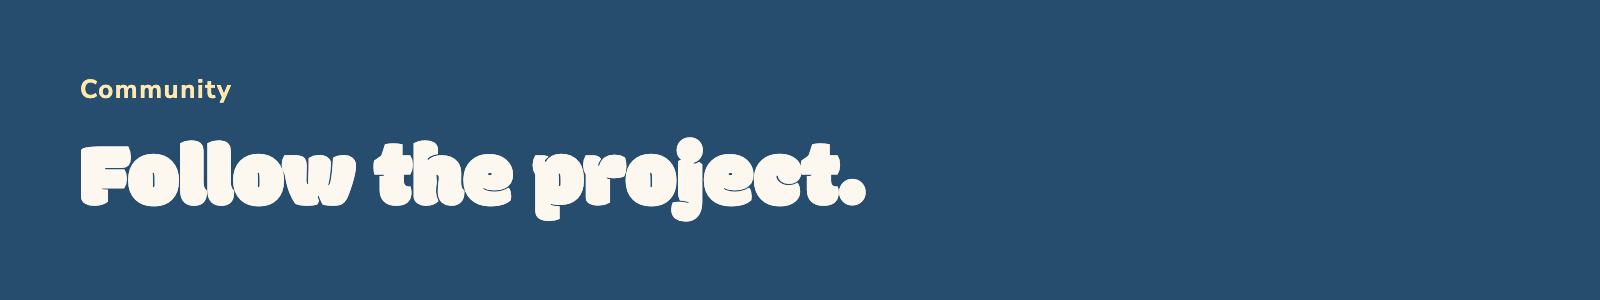
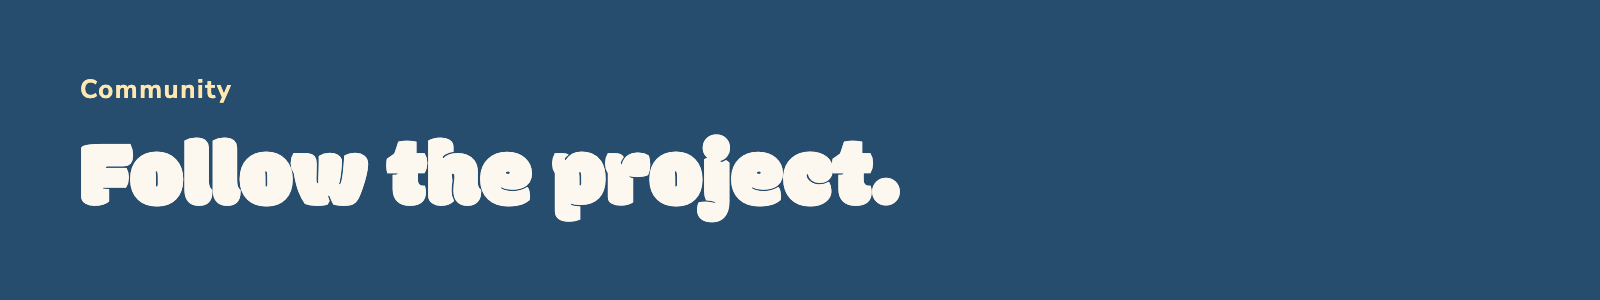
doc(profile): drop the independence claim, and every em dash
"An object that depends on nobody." was not true. The firmware and the
app are closed and maintained by one person, so the object does depend
on someone, and a profile page that overstates it is the worst place to
do so. The banner now reads "The promise / What you put in stays
yours.", which is the claim the section actually backs up: the content
is yours, it plays with no cloud in the loop, the parts can be swapped.

No em dash anywhere in `profile/` any more, README and technical
specifications included. Where one separated a bold lead from its text,
it goes back to the line break the table version had; in a bullet it
becomes a colon.

Re-rendering the banner recomputed the shared title size, which is the
largest that fits the longest of them: 92 px becomes 96 px now that the
longest title is shorter. The other five follow, by design.

Changed region(s): [[0.0312, 0.45, 0.5625, 0.75]]

diff --git a/profile/README.md b/profile/README.md
@@ -34,27 +34,27 @@ That was the proof of concept. Today The Open Music Box is a real product in the
   <img src="https://raw.githubusercontent.com/The-Open-Music-Box/.github/main/profile/assets/musicbox-v4-render.jpg" alt="The MusicBox V4 prototype with a card in its slot" width="420" />
 </p>
 
-**What you do from your phone** — You add your music, your stories and your podcasts, you create playlists and you link each one to an NFC card. Standard cards, stickers or figurines, nothing proprietary.
+**What you do from your phone**<br/>You add your music, your stories and your podcasts, you create playlists and you link each one to an NFC card. Standard cards, stickers or figurines, nothing proprietary.
 
-**What your child does** — Place the card on the MusicBox and it plays. Take it off and it stops. Four buttons for volume and tracks, nothing else to learn, and no need to know how to read.
+**What your child does**<br/>Place the card on the MusicBox and it plays. Take it off and it stops. Four buttons for volume and tracks, nothing else to learn, and no need to know how to read.
 
-**Where it works** — In the bedroom, in the car, at the grandparents. The MusicBox plays its content on its own, with no server to reach and no account to revalidate.
+**Where it works**<br/>In the bedroom, in the car, at the grandparents. The MusicBox plays its content on its own, with no server to reach and no account to revalidate.
 
 <br/>
 
-<img src="https://raw.githubusercontent.com/The-Open-Music-Box/.github/main/profile/assets/readme-promises.png" alt="What you get" width="100%" />
+<img src="https://raw.githubusercontent.com/The-Open-Music-Box/.github/main/profile/assets/readme-promises.png" alt="The promise: what you put in stays yours" width="100%" />
 
 Connected things for children raise a simple question: who owns what you bought? The MusicBox is designed so the answer is you.
 
-**Your music, your stories** — You put in whatever you want, and it stays yours. No house catalogue, nothing that vanishes the day a catalogue shuts down.
+**Your music, your stories**<br/>You put in whatever you want, and it stays yours. No house catalogue, nothing that vanishes the day a catalogue shuts down.
 
-**Works without internet** — No cloud in the loop. The day the project stops, the MusicBox keeps playing.
+**Works without internet**<br/>No cloud in the loop. The day the project stops, the MusicBox keeps playing.
 
-**Repairable by design** — Standard parts, chosen so they can be swapped. Nothing glued shut for good.
+**Repairable by design**<br/>Standard parts, chosen so they can be swapped. Nothing glued shut for good.
 
-**No account, no ads** — Nothing to sign up for, nothing watching your child.
+**No account, no ads**<br/>Nothing to sign up for, nothing watching your child.
 
-**No screen, and that is the point** — No scrolling, no video queueing itself up, no notification. Your child listens and imagines.
+**No screen, and that is the point**<br/>No scrolling, no video queueing itself up, no notification. Your child listens and imagines.
 
 <br/>
 
@@ -62,11 +62,11 @@ Connected things for children raise a simple question: who owns what you bought?
 
 Handy with tools? The assembly guide, the parts list and the software are on the website, and the community helps out on Discord.
 
-**Breadboard** *(available)* — Off-the-shelf parts, a breadboard, Dupont wires and an enclosure of your own.
+**Breadboard** *(available)*<br/>Off-the-shelf parts, a breadboard, Dupont wires and an enclosure of your own.
 
-**Development board** *(available)* — An all-in-one HermitX board with the NFC antenna, a 3 W speaker and an NTAG215 card, a soldering iron and a 3D printer.
+**Development board** *(available)*<br/>An all-in-one HermitX board with the NFC antenna, a 3 W speaker and an NTAG215 card, a soldering iron and a 3D printer.
 
-**The Open Music Box player** *(coming)* — Our own board, with audio jack and battery management. Nothing to solder or print.
+**The Open Music Box player** *(coming)*<br/>Our own board, with audio jack and battery management. Nothing to solder or print.
 
 1. **Assemble the hardware** following the [build guide](https://theopenmusicbox.com/en/build/), BOM and wiring included.
 2. **Print the V4 enclosure** for the development board path: three parts, STL and 3MF, on [Printables](https://www.printables.com/model/1839324) or [on GitHub](https://github.com/The-Open-Music-Box/enclosure).
@@ -77,12 +77,12 @@ Handy with tools? The assembly guide, the parts list and the software are on the
 
 <img src="https://raw.githubusercontent.com/The-Open-Music-Box/.github/main/profile/assets/readme-status.png" alt="Where we are" width="100%" />
 
-- **Raspberry Pi proof of concept** — validated, [source available](https://github.com/The-Open-Music-Box/raspberrypi-firmware) (archived)
-- **ESP32 firmware** — beta, installable from the browser
-- **iOS app** — open beta on [TestFlight](https://testflight.apple.com/join/5vC2Dfzg)
-- **Android app** — closed beta, [become a tester](mailto:contact@theopenmusicbox.com?subject=I%20want%20to%20test%20the%20Android%20beta)
-- **Development board path** — available, 3D enclosure V4 published
-- **The Open Music Box player board** — in design
+- **Raspberry Pi proof of concept**: validated, [source available](https://github.com/The-Open-Music-Box/raspberrypi-firmware) (archived)
+- **ESP32 firmware**: beta, installable from the browser
+- **iOS app**: open beta on [TestFlight](https://testflight.apple.com/join/5vC2Dfzg)
+- **Android app**: closed beta, [become a tester](mailto:contact@theopenmusicbox.com?subject=I%20want%20to%20test%20the%20Android%20beta)
+- **Development board path**: available, 3D enclosure V4 published
+- **The Open Music Box player board**: in design
 
 Under the hood, everything is contract-driven: one API specification (OpenAPI and Socket.IO) is the source of truth shared by the ESP32 firmware (C++, hexagonal architecture), the Flutter app (Dart, Riverpod) and the backend (Rust).
 
@@ -90,11 +90,11 @@ Under the hood, everything is contract-driven: one API specification (OpenAPI an
 
 ### What is public here
 
-**[enclosure](https://github.com/The-Open-Music-Box/enclosure)** — The 3D-printable enclosure of the Prototype V4: body, top and card holder, as STL and 3MF, under CERN-OHL-S v2. Print it, change it, sell what you build, as long as your own files stay open under the same licence.
+**[enclosure](https://github.com/The-Open-Music-Box/enclosure)**<br/>The 3D-printable enclosure of the Prototype V4: body, top and card holder, as STL and 3MF, under CERN-OHL-S v2. Print it, change it, sell what you build, as long as your own files stay open under the same licence.
 
-**[raspberrypi-firmware](https://github.com/The-Open-Music-Box/raspberrypi-firmware)** — The Raspberry Pi proof of concept that started all this, kept as it was.
+**[raspberrypi-firmware](https://github.com/The-Open-Music-Box/raspberrypi-firmware)**<br/>The Raspberry Pi proof of concept that started all this, kept as it was.
 
-**[update-provider](https://github.com/The-Open-Music-Box/update-provider)** — The endpoint the app asks for firmware updates. Public so that anyone can see what the box fetches, and from where.
+**[update-provider](https://github.com/The-Open-Music-Box/update-provider)**<br/>The endpoint the app asks for firmware updates. Public so that anyone can see what the box fetches, and from where.
 
 The product repositories (ESP32 firmware, mobile app, backend) are private. Why, and what that does and does not mean for you, is set out under [Source and licensing](#source-and-licensing) below.
 

diff --git a/profile/TECHNICAL_SPECIFICATIONS.md b/profile/TECHNICAL_SPECIFICATIONS.md
@@ -461,7 +461,7 @@ PlaylistDetailed:
 
 ### Server-Authoritative Architecture
 
-**Principle**: The backend (RPI or ESP32) is the **single source of truth**. Clients **never directly mutate state** — they request operations, and the server broadcasts authoritative updates.
+**Principle**: The backend (RPI or ESP32) is the **single source of truth**. Clients **never directly mutate state**<br/>they request operations, and the server broadcasts authoritative updates.
 
 #### Flow
 
@@ -575,7 +575,7 @@ interface StateEvent {
 | **esp32-firmware/** | 85% (26/30) | 75% (12/16) | ⚠ Custom (model integration pending) | B |
 | **Overall** | **82%** | **78%** | **50%** | **B-** |
 
-**Target**: 100% compliance (A+ grade) — see [HARMONIZATION_PLAN.md](HARMONIZATION_PLAN.md)
+**Target**: 100% compliance (A+ grade), see [HARMONIZATION_PLAN.md](HARMONIZATION_PLAN.md)
 
 ---
 
